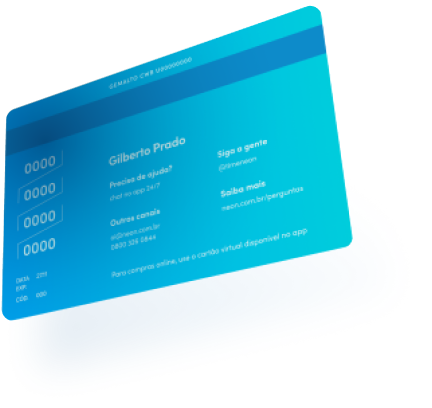
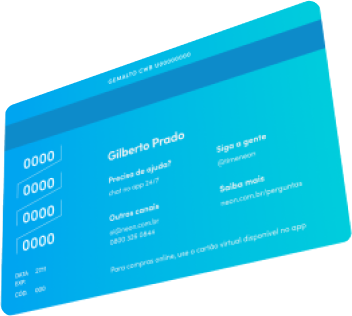
adicionando seção Hero

diff --git a/css/main.min.css b/css/main.min.css
@@ -1,1 +1,1 @@
-*{margin:0;padding:0;box-sizing:border-box;-webkit-font-smoothing:antialiased;font-family:"Inter",sans-serif}img{max-width:100%;display:block}a{display:block;text-decoration:none}button{all:unset;cursor:pointer}ul{list-style:none}h1,h2,h3,h4{color:#4e4b59;font-family:"Poppins",sans-serif;line-height:112%}h1{font-size:4rem;letter-spacing:-0.0625rem;font-weight:600}h2{font-size:2.5rem;letter-spacing:-0.0625rem;font-weight:600}h3{font-size:1.5rem;letter-spacing:-0.0313rem;font-weight:500}h4{font-size:1.25rem;letter-spacing:-0.0313rem;font-weight:500}h5{font-size:1.125rem;letter-spacing:-1px;font-weight:600}.btn-primary{display:inline-block;padding:1rem 1.625rem;border-radius:7.625rem;background:#ffc800;color:#855b35;font-family:"poppins",sans-serif;font-size:1rem;font-weight:600;line-height:100%;transition:.3s ease}.btn-primary:hover{background-color:#ffdc5c}.btn-secundary{display:inline-block;padding:12px 18px;background-color:none;color:#00a5f0;font-family:"Poppins",sans-serif;font-size:1rem;font-weight:600;line-height:100%;border-radius:122px;border:1px solid #00a5f0;transition:.3s ease}.btn-secundary:hover{background-color:#00a5f0;color:#fff}.btn-secundary.white{border:1px solid #fff;color:#fff;background-color:none}.btn-secundary.white:hover{background-color:#fff;color:#00a5f0}.card-depoimento{width:100%;max-width:24rem;height:13.0625rem;border-radius:8px;padding:2.3125rem 2rem 1.4375rem 2rem;background-color:#f1f0f5}.card-depoimento .content{width:100%;max-width:308px}.card-depoimento .content .titulo{display:flex;align-items:center;justify-content:space-between;color:#4e4b59;margin-bottom:21px}.card-depoimento .content p{color:#4e4b59;font-family:"Inter",sans-serif;font-size:18px;font-style:normal;font-weight:400;line-height:150%}.container{width:100%;max-width:76.25rem;padding:0 .9375rem;margin:0 auto}header{background-color:#0073ce;border-bottom:2px solid #fff}header .header{padding:1.5rem 0;display:flex;align-items:center;justify-content:space-between}header .header ul{display:flex;align-items:center;justify-content:space-between;gap:3rem}header .header ul li a{color:#fff;font-family:"Poppins",sans-serif;font-size:1rem;font-weight:500;line-height:125%;transition:.3s ease}header .header ul li a:hover{color:#f1f0f5}/*# sourceMappingURL=main.min.css.map */
+*{margin:0;padding:0;box-sizing:border-box;-webkit-font-smoothing:antialiased;font-family:"Inter",sans-serif}img{max-width:100%;display:block}a{display:block;text-decoration:none}button{all:unset;cursor:pointer}ul{list-style:none}h1,h2,h3,h4{color:#4e4b59;font-family:"Poppins",sans-serif;line-height:112%}h1{font-size:4rem;letter-spacing:-0.0625rem;font-weight:600}h2{font-size:2.5rem;letter-spacing:-0.0625rem;font-weight:600}h3{font-size:1.5rem;letter-spacing:-0.0313rem;font-weight:500}h4{font-size:1.25rem;letter-spacing:-0.0313rem;font-weight:500}h5{font-size:1.125rem;letter-spacing:-1px;font-weight:600}.btn-primary{display:inline-block;padding:1rem 1.625rem;border-radius:7.625rem;background:#ffc800;color:#855b35;font-family:"poppins",sans-serif;font-size:1rem;font-weight:600;line-height:100%;transition:.3s ease}.btn-primary:hover{background-color:#ffdc5c}.btn-secundary{display:inline-block;padding:12px 18px;background-color:none;color:#00a5f0;font-family:"Poppins",sans-serif;font-size:1rem;font-weight:600;line-height:100%;border-radius:122px;border:1px solid #00a5f0;transition:.3s ease}.btn-secundary:hover{background-color:#00a5f0;color:#fff}.btn-secundary.white{border:1px solid #fff;color:#fff;background-color:none}.btn-secundary.white:hover{background-color:#fff;color:#00a5f0}.card-depoimento{width:100%;max-width:24rem;height:13.0625rem;border-radius:8px;padding:2.3125rem 2rem 1.4375rem 2rem;background-color:#f1f0f5}.card-depoimento .content{width:100%;max-width:308px}.card-depoimento .content .titulo{display:flex;align-items:center;justify-content:space-between;color:#4e4b59;margin-bottom:21px}.card-depoimento .content p{color:#4e4b59;font-family:"Inter",sans-serif;font-size:18px;font-style:normal;font-weight:400;line-height:150%}.container{width:100%;max-width:76.25rem;padding:0 .9375rem;margin:0 auto}header{position:absolute;top:0;left:0;width:100%;border-bottom:2px solid rgba(255,255,255,.2)}header .header{padding:1.5rem 0;display:flex;align-items:center;justify-content:space-between}header .header ul{display:flex;align-items:center;justify-content:space-between;gap:3rem}header .header ul li a{color:#fff;font-family:"Poppins",sans-serif;font-size:1rem;font-weight:500;line-height:125%;transition:.3s ease}header .header ul li a:hover{color:#ffc800}.s-hero{width:100%;height:49.125rem;background:url(/assets/bg-hero.svg) no-repeat center center;padding-top:175px}.s-hero .container{display:flex;justify-content:space-between;align-items:flex-start}.s-hero .text{width:100%;max-width:42.75rem}.s-hero .text h3{opacity:.8;color:#fff;font-weight:600;margin-bottom:2rem}.s-hero .text h1{color:#fff;margin-bottom:2.4375rem}.s-hero .text ul{width:100%;max-width:38.8125rem;margin-top:4rem;display:flex;align-items:center;justify-content:space-between}.s-hero .text ul li{display:flex;align-items:center}.s-hero .text ul li .icon{width:3rem;height:3rem;background:linear-gradient(180deg, rgba(53, 203, 226, 0.3) 0%, rgba(53, 202, 226, 0) 100%);border-radius:50%;display:flex;align-items:center;justify-content:center;margin-right:.75rem}.s-hero .text ul li span{color:#fff;font-size:18px;line-height:22px}.s-hero .area-image{width:100%;max-width:44.125rem;margin-right:-10.875rem}.s-hero .area-image h2{margin-bottom:4.1875rem;text-align:center;color:#fff;opacity:.4;font-weight:600}.s-hero .area-image .image{position:relative;width:100%;height:33.8125rem;top:35px}.s-hero .area-image .image img{position:absolute}.s-hero .area-image .image .card-front{top:2.5625rem;left:0;z-index:2}.s-hero .area-image .image .card-back{bottom:2.875rem;right:4.1875rem;z-index:1}.s-hero .area-image .image .circle{top:1.75rem;right:2.875rem}/*# sourceMappingURL=main.min.css.map */

diff --git a/sass/pages/_hero.scss b/sass/pages/_hero.scss
@@ -1,0 +1,92 @@
+.s-hero{
+    width: 100%;
+    height: 49.125rem;
+    background: url(/assets/bg-hero.svg) no-repeat center center;
+    padding-top: 175px;
+    .container{
+        display: flex;
+        justify-content: space-between;
+        align-items: flex-start;
+    }
+    .text{
+        width: 100%;
+        max-width: 42.75rem;
+
+        h3{
+            opacity: 0.8;
+            color: white;
+            font-weight: 600;
+            margin-bottom: 2rem;
+        }
+
+        h1{
+            color: white;
+            margin-bottom: 2.4375rem;
+        }
+
+        ul{
+            width: 100%;
+            max-width: 38.8125rem;
+            margin-top: 4rem;
+            @include flexCenterJustify;
+
+            li{
+                @include flex-center;
+                
+                .icon{
+                    width: 3rem;
+                    height: 3rem;
+                    background: linear-gradient(180deg, rgba(53, 203, 226, 0.3) 0%, rgba(53, 202, 226, 0.00) 100%);
+                    border-radius: 50%;
+                    @include flexTotalCenter;
+                    margin-right: .75rem;
+                }
+
+                span{
+                    color: white;
+                    font-size: 18px;
+                    line-height: 22px;
+                }
+            }
+        }
+    }
+
+    .area-image{
+        width: 100%;
+        max-width: 44.125rem;
+        margin-right: -10.875rem;
+
+        h2{
+            margin-bottom: 4.1875rem;
+            text-align: center;
+            color: white;
+            opacity: 0.4;
+            font-weight: 600;
+        }
+
+        .image{
+            position: relative;
+            width: 100%;
+            height: 33.8125rem;
+            top: 35px;
+            img{
+                position: absolute;
+            }
+            .card-front{
+                top: 2.5625rem;
+                left: 0;
+                z-index: 2;
+            }
+
+            .card-back{
+                bottom: 2.875rem;
+                right: 4.1875rem;
+                z-index: 1;
+            }
+            .circle{
+                top: 1.75rem;
+                right: 2.875rem;
+            }
+        }
+    }
+}

diff --git a/index.html b/index.html
@@ -28,5 +28,46 @@
             <a class="btn-secundary white" href="#">Abra sua conta digital</a>
         </div>
     </header>
+
+    <section class="s-hero">
+        <div class="container">
+            <div class="text">
+                <h3>Abra sua conta, é só baixar o app!</h3>
+                <h1>A conta digital certa pra cuidar bem do seu dinheiro</h1>
+                <a class="btn-primary" href="#">Abra sua conta digital</a>
+
+                <ul>
+                    <li>
+                        <div class="icon">
+                            <img src="/assets/icon-card.svg" alt="card">
+                        </div>
+                        <span>Cartão sem<br/> anuidade</span>
+                    </li>
+                    <li>
+                        <div class="icon">
+                            <img src="/assets/icon-anuid.svg" alt="card">
+                        </div>
+                        <span>Conta digital<br/> 100% grátis</span>
+                    </li>
+                    <li>
+                        <div class="icon">
+                            <img src="/assets/icon-money.svg" alt="card">
+                        </div>
+                        <span>Seu dinheiro<br/> rendendo mais</span>
+                    </li>
+                </ul>
+            </div>
+
+            <div class="area-image">
+                <h2>Banco 100% digital</h2>
+
+                <div class="image">
+                    <img src="/assets/card-front.png" class="card-front">
+                    <img src="/assets/card-back.png" class="card-back">
+                    <img src="/assets/circle.svg" class="circle">
+                </div>
+            </div>
+        </div>
+    </section>
 </body>
 </html>

diff --git a/sass/pages/_header.scss b/sass/pages/_header.scss
@@ -1,6 +1,10 @@
 header{
-    background-color: $brand-blue;
-    border-bottom: 2px solid #fff;
+    position: absolute;
+    top: 0;
+    left: 0;
+    width: 100%;
+    border-bottom: 2px solid rgba(255, 255, 255, 0.2);
+    
     .header{
         padding: 1.5rem 0;
         @include flexCenterJustify;
@@ -19,7 +23,7 @@ header{
 
                     transition: .3s ease;
                     &:hover{
-                        color: $grey-100;
+                        color: $brand-yellow;
                     }
                 }
             }
